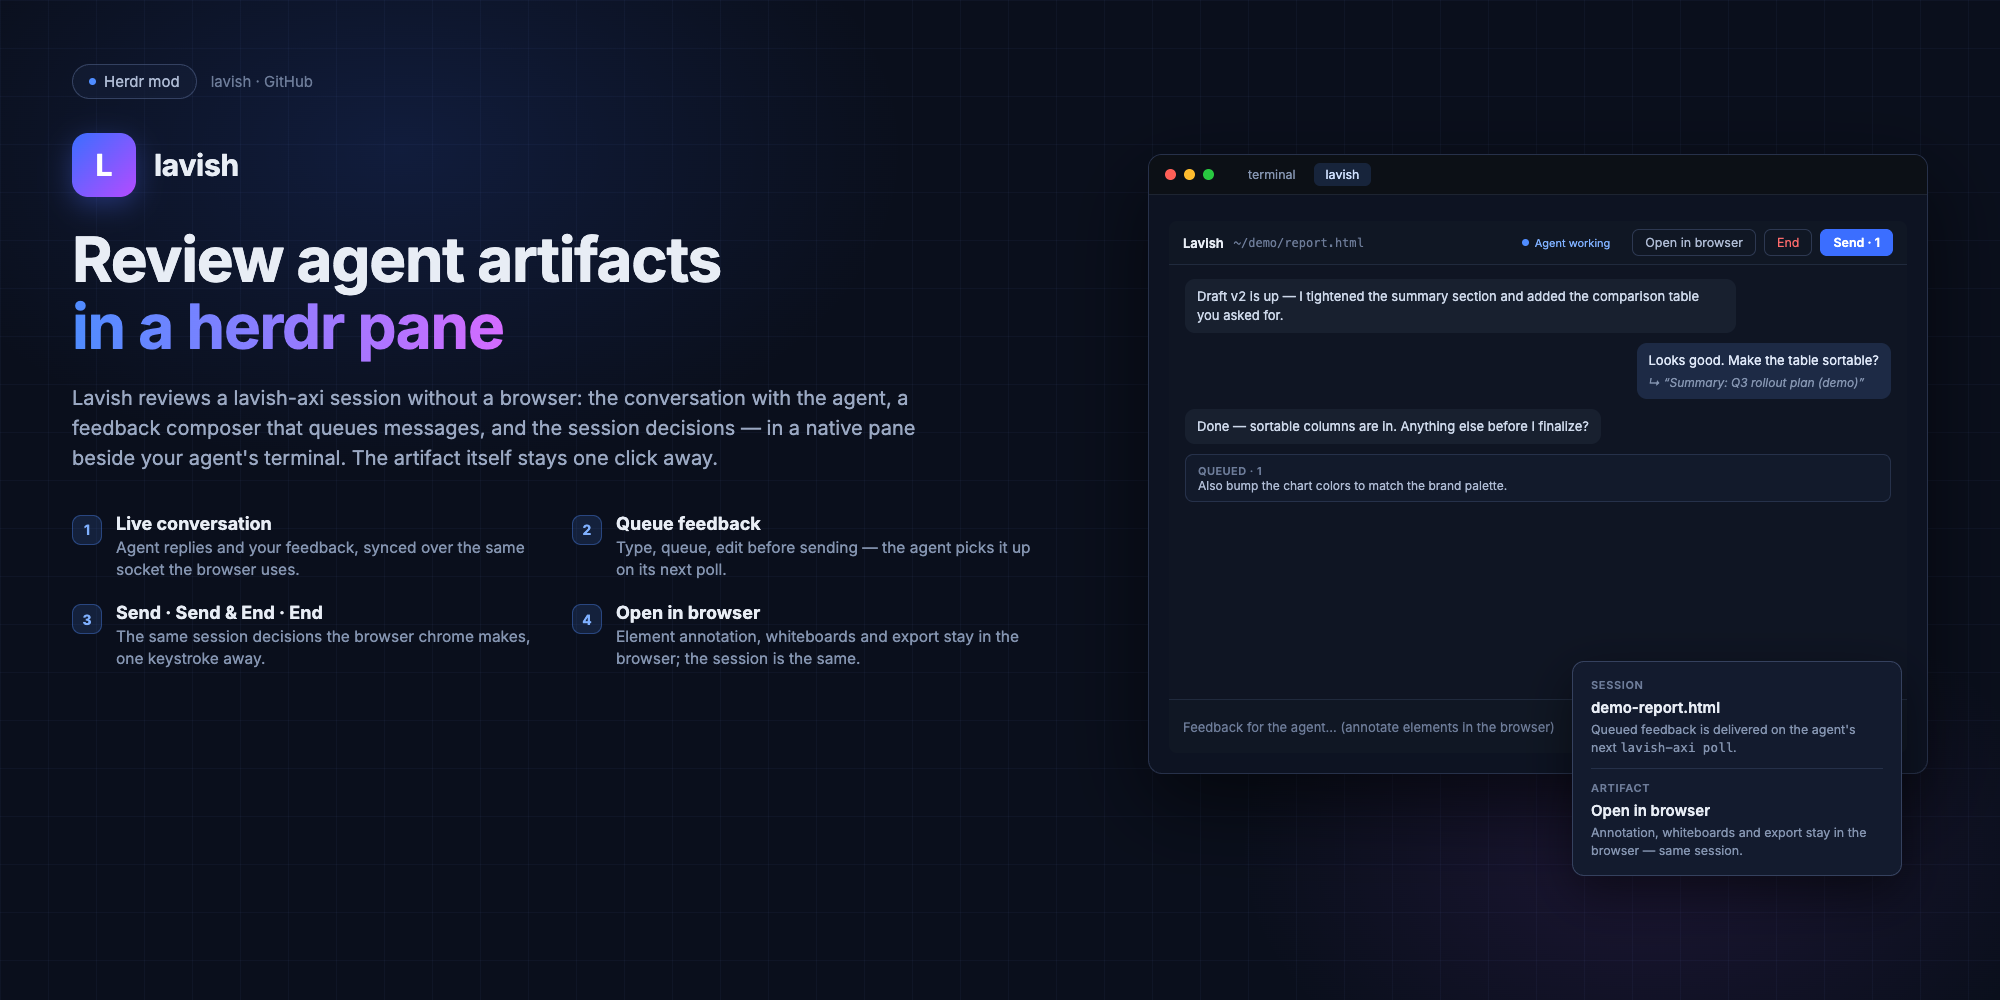
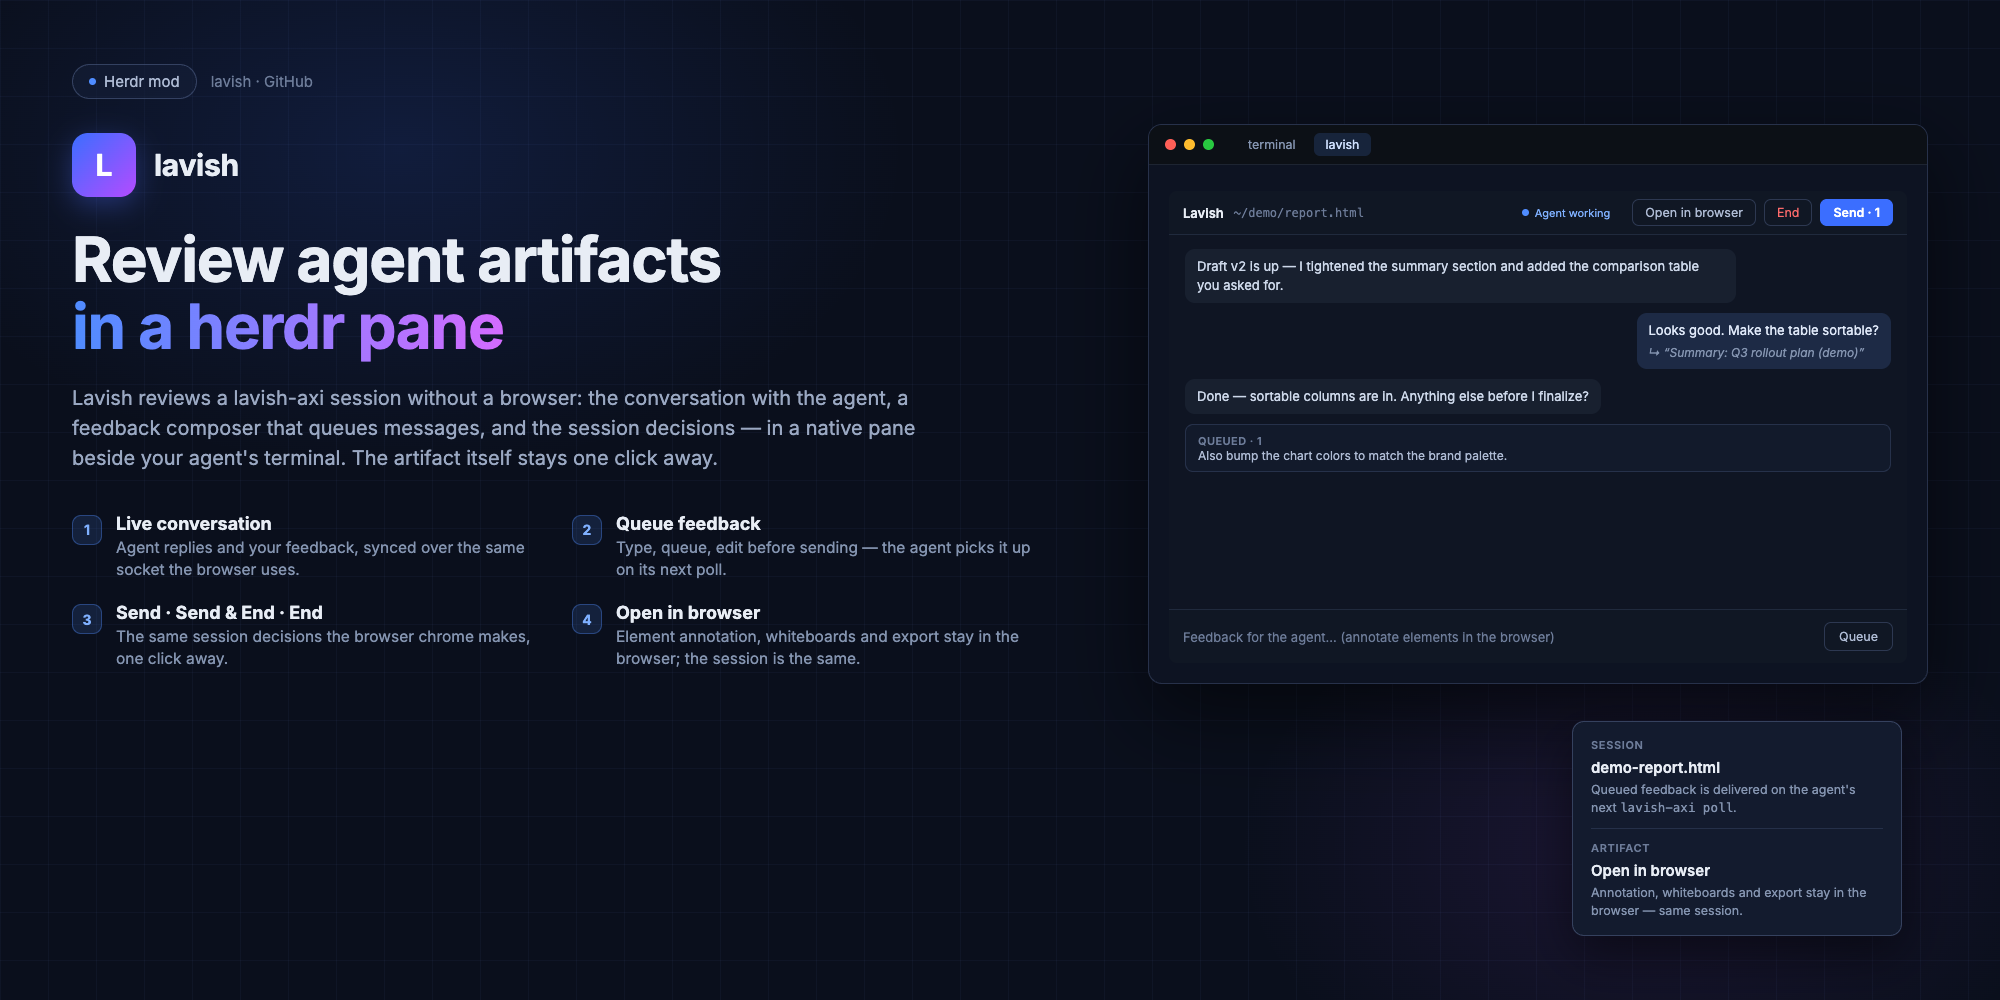
no-mistakes(review): Restore attract hero, fix card copy and overlap

diff --git a/docs/attract/lavish-attract.html b/docs/attract/lavish-attract.html
@@ -74,7 +74,7 @@
   /* right: herdr window mockup */
   .right { flex: 1; position: relative; }
   .win {
-    position: absolute; right: 0; top: 90px; width: 780px; height: 620px;
+    position: absolute; right: 0; top: 60px; width: 780px; height: 560px;
     background: #0d1322; border: 1px solid rgba(130,155,215,0.22); border-radius: 14px;
     box-shadow: 0 30px 80px rgba(0,0,0,0.55);
     overflow: hidden;
@@ -113,7 +113,7 @@
   .composer .q { font-size: 12.5px; padding: 6px 14px; border-radius: 7px; border: 1px solid rgba(130,155,215,0.25); color: #aebbd4; }
 
   .card {
-    position: absolute; right: 26px; bottom: 60px; width: 330px;
+    position: absolute; right: 26px; bottom: 0; width: 330px;
     background: #131b2e; border: 1px solid rgba(140,165,220,0.28); border-radius: 12px;
     padding: 16px 18px; box-shadow: 0 18px 50px rgba(0,0,0,0.5);
   }
@@ -142,7 +142,7 @@
       <div class="feats">
         <div class="feat"><div class="fnum">1</div><div><b>Live conversation</b><span>Agent replies and your feedback, synced over the same socket the browser uses.</span></div></div>
         <div class="feat"><div class="fnum">2</div><div><b>Queue feedback</b><span>Type, queue, edit before sending — the agent picks it up on its next poll.</span></div></div>
-        <div class="feat"><div class="fnum">3</div><div><b>Send · Send &amp; End · End</b><span>The same session decisions the browser chrome makes, one keystroke away.</span></div></div>
+        <div class="feat"><div class="fnum">3</div><div><b>Send · Send &amp; End · End</b><span>The same session decisions the browser chrome makes, one click away.</span></div></div>
         <div class="feat"><div class="fnum">4</div><div><b>Open in browser</b><span>Element annotation, whiteboards and export stay in the browser; the session is the same.</span></div></div>
       </div>
     </div>

diff --git a/README.md b/README.md
@@ -2,13 +2,15 @@
 
 Review lavish-axi sessions in a herdr-app pane instead of a browser tab.
 
-![Lavish in a herdr pane](docs/screenshot.png)
+![Lavish — review agent artifacts in a herdr pane](preview.png)
 
 Lavish runs as usual: same CLI, same local server, same feedback for the
 agent. Only the review surface changes. The session opens as a native pane
 beside the agent's terminal — the conversation, the feedback queue and the
 session decisions — talking to the same HTTP and WebSocket API the browser
 page uses. The artifact itself stays one click away in the browser.
+
+![Lavish in a herdr pane](docs/screenshot.png)
 
 ## What is Lavish?
 
@@ -19,12 +21,6 @@ for review in your browser. You annotate elements and text, edit diagrams,
 and queue feedback; the agent picks it up with `lavish-axi poll` and updates
 the artifact. This mod moves that review session into a herdr-app pane
 instead of a browser tab.
-
-![Lavish — review agent artifacts in a herdr pane](preview.png)
-
-The pane itself, live:
-
-![Lavish in a herdr pane](docs/screenshot.png)
 
 ## Install
 
